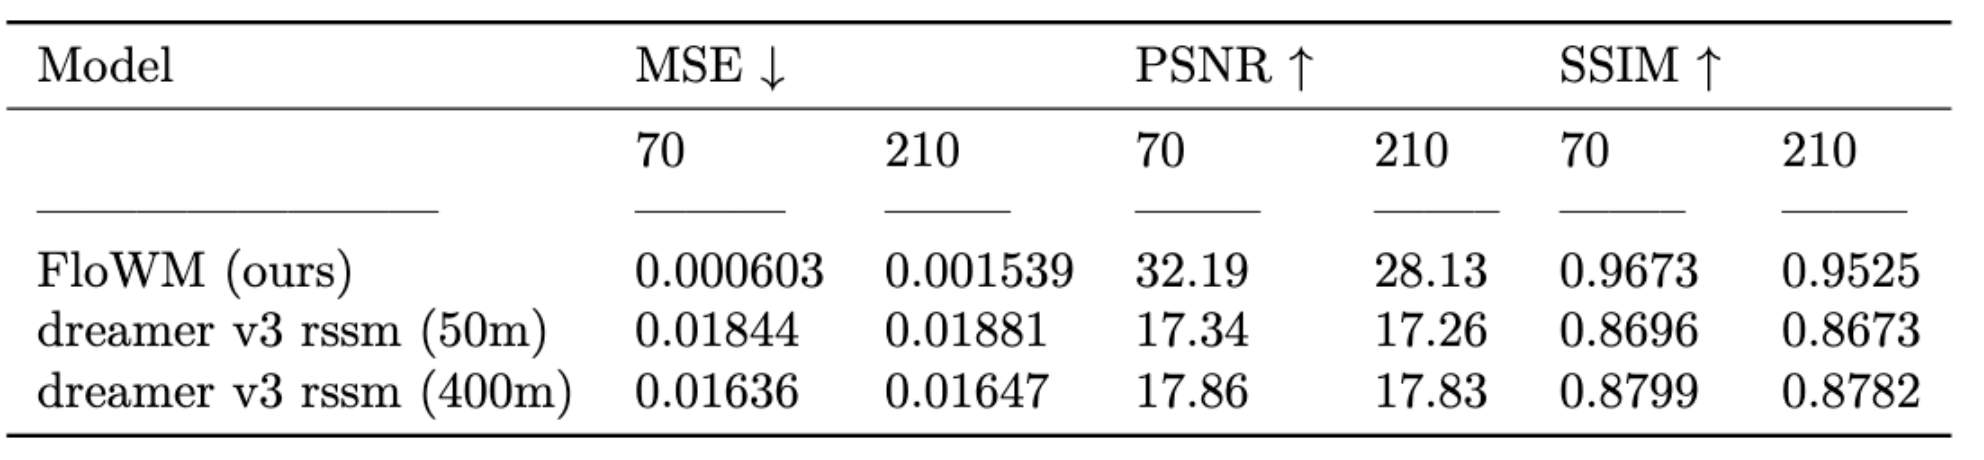
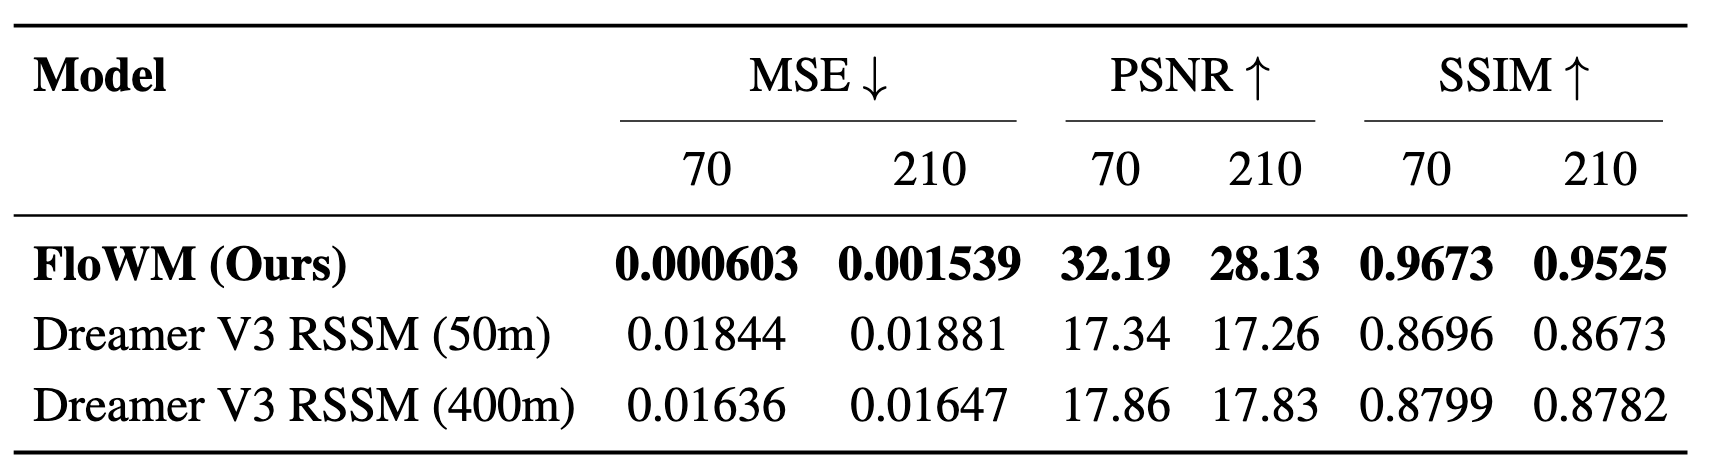
Updates on style etc.

diff --git a/index.html b/index.html
@@ -646,15 +646,16 @@
 
     <div class="columns is-centered">
       <div class="column is-full-width">
-        <h2 class="title is-3">Dreamer V3 RSSM Baseline (New!)</h2>
+        <!-- <h2 class="title is-3">Dreamer V3 RSSM Baseline (New!)</h2> -->
+        <h2 class="title is-3" style="color: red;">Dreamer V3 RSSM Baseline (New!)</h2>
 
         <!-- Model diagram -->
         <div class="content has-text-justified">
           <p>
-            We present new results on an additional baseline, an RSSM model based on the Dreamer V3 architecture. Two variants are trained, one with 50M parameters and one with 400M
+            We present new results on an additional baseline, an <strong>RSSM model based on the Dreamer V3 architecture</strong>. Two variants are trained, one with 50M parameters and one with 400M
             parameters, following the description and hyperparameters in the paper. They are trained for 300k steps, the same as the other baselines. In the table below, we can see 
-            that the RSSM model does not do very well, approximately matching the performance of the other baselines. Further, scale improves the quantitative metrics slightly but not 
-            significantly, and perceptually the videos still look quite poor, reinforcing our hypothesis that structured memory is important for solving partially observed dynamic 
+            that the <strong>RSSM model performs poorly</strong>, approximately matching the performance of the other baselines. Further, <strong>model scale improves the quantitative metrics slightly but not 
+            significantly</strong>, and perceptually the videos still look quite poor, reinforcing our hypothesis that structured memory is important for solving partially observed dynamic 
             world modeling problems. 
           </p>
         </div>
@@ -672,8 +673,8 @@
           <div class="toggle-content">
             <div class="content has-text-justified">
               <p>
-                Rollouts of 70 context frames with 210 generated frames are visualized below for the 50M and 400M RSSM models on the Dynamic Blockworld dataset. We can see that after the 
-                generation period begins, the RSSM model is not able to keep coherent predictions, instead predicting some sort of dataset average. This provides evidence for our 
+                Rollouts of 70 context frames with 210 generated frames are visualized below for the 50M and 400M RSSM models on the Dynamic Blockworld dataset. <strong>We can see that after the 
+                generation period begins, the RSSM model is not able to keep coherent predictions</strong>, instead predicting some sort of dataset average. This provides evidence for our 
                 hypothesis that structured memory representations enable better learning for environments such as Blockworld; to compare, see rollouts for FloWM 
                 <a href="#results-3d-blockworld">above.</a>
               </p>
@@ -736,7 +737,8 @@
 
     <div class="columns is-centered">
       <div class="column is-full-width">
-        <h2 class="title is-3">Blockworld Planning Experiments (New!)</h2>
+        <!-- <h2 class="title is-3">Blockworld Planning Experiments (New!)</h2> -->
+        <h2 class="title is-3" style="color: red;">Blockworld Planning Experiments (New!)</h2>
 
         <!-- Model diagram -->
         <div class="content has-text-justified">
@@ -758,6 +760,23 @@
         <div class="col-auto">
           <br>
         <div style="text-align: center;"><img src='./static/images/planning/planning_table.png' style="max-width: 100%; height: auto;" width="700" alt='missing' /></div>
+        </div>
+
+        <!-- <div class="col-auto">
+          <br>
+        <div style="text-align: center;"><img src='./static/images/planning/planning_table.png' style="max-width: 100%; height: auto;" width="700" alt='missing' /></div>
+        </div> -->
+
+        <h3 class="title is-4" style="margin-top: 1.5rem;">MPC Planning Algorithm</h3>
+        <div class="content" style="margin-top: 1.5rem;">
+          <pre style="background: #f5f5f5; padding: 1rem 1.25rem; border-radius: 8px; overflow-x: auto; white-space: pre-wrap;"><code>repeat until episode ends:
+  - from the current real context, evaluate many candidate action sequences of length H with the world model
+  - generate predicted future observations for each candidate sequence
+  - compute predicted reward for each imagined rollout
+  - choose the highest-scoring action sequence, and execute the first action in the real environment
+  - observe the real next frame and update the model context
+  - replan</code>
+          </pre>
         </div>
 
         <div class="toggle-container">
